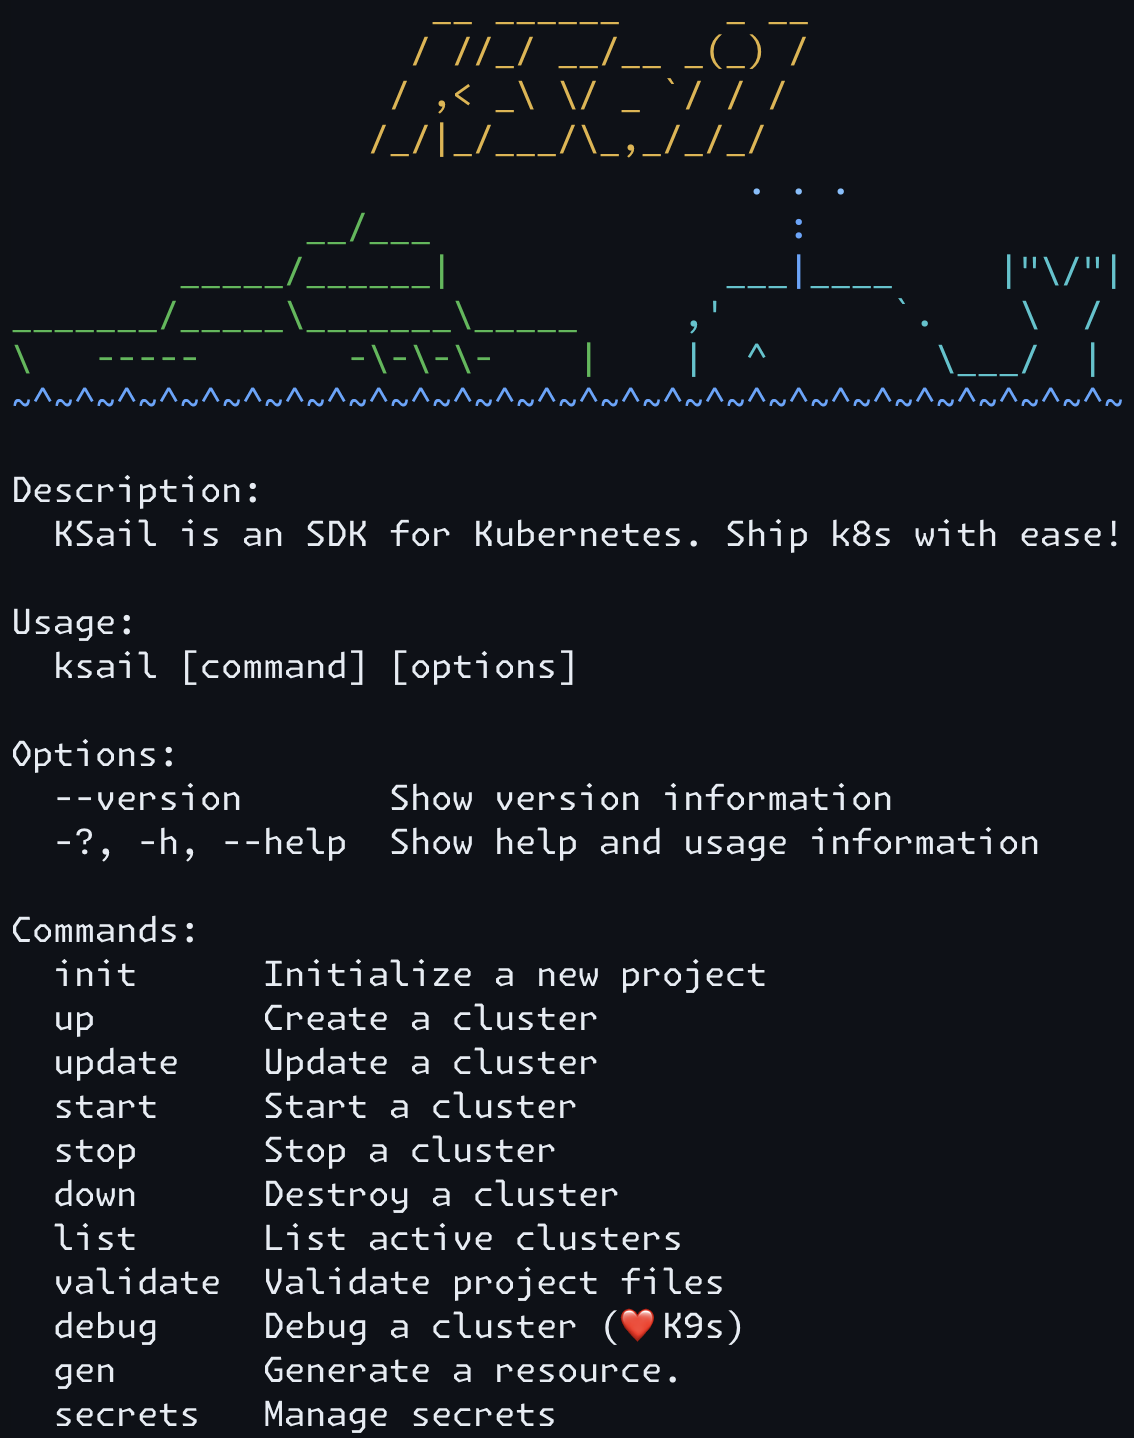
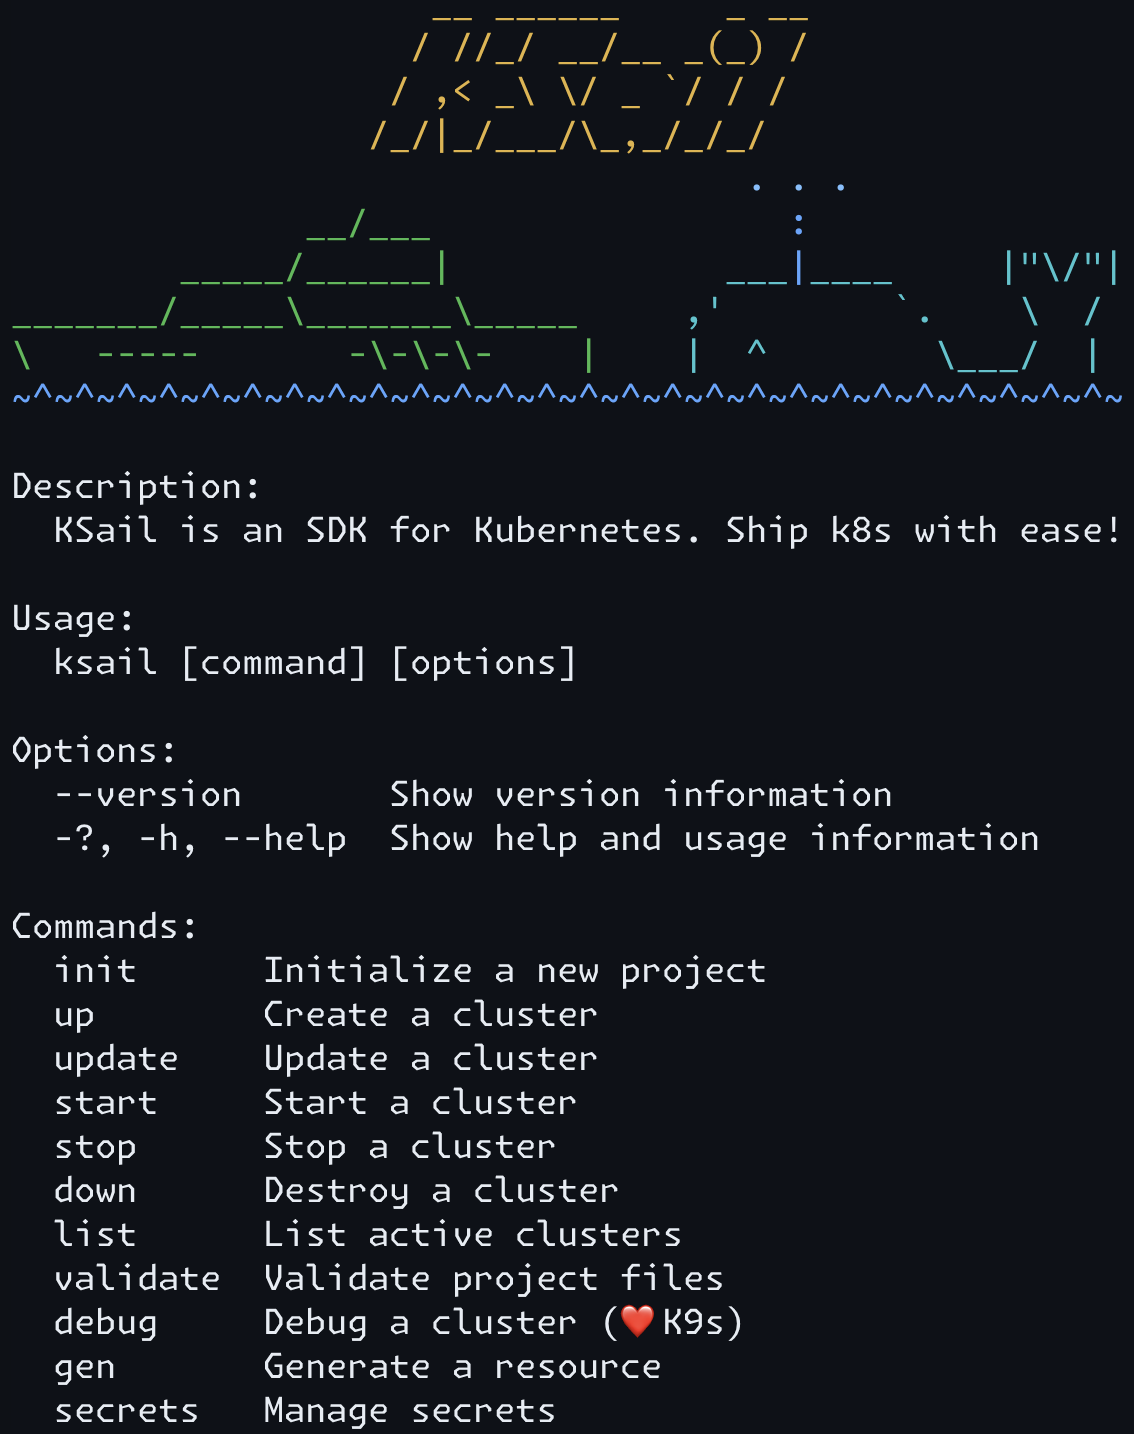
fix: remove trailing periods from 'generate a resource' descriptions

diff --git a/src/KSail/Commands/Gen/KSailGenCommand.cs b/src/KSail/Commands/Gen/KSailGenCommand.cs
@@ -13,7 +13,7 @@ namespace KSail.Commands.Gen;
 sealed class KSailGenCommand : Command
 {
   readonly GeneratorOverwriteOption _generatorOverwriteOption = new(new KSailCluster());
-  internal KSailGenCommand(IConsole? console = default) : base("gen", "Generate a resource.")
+  internal KSailGenCommand(IConsole? console = default) : base("gen", "Generate a resource")
   {
     AddGlobalOption(_generatorOverwriteOption);
     AddCommands(console);

diff --git a/docs/configuration/cli-options.md b/docs/configuration/cli-options.md
@@ -35,7 +35,7 @@ Commands:
   list      List active clusters
   validate  Validate project files
   debug     Debug a cluster (❤ K9s)
-  gen       Generate a resource.
+  gen       Generate a resource
   secrets   Manage secrets
 ```
 
@@ -184,7 +184,7 @@ Commands:
   list      List active clusters
   validate  Validate project files
   debug     Debug a cluster (❤ K9s)
-  gen       Generate a resource.
+  gen       Generate a resource
   secrets   Manage secrets
 ```
 
@@ -224,7 +224,7 @@ Options:
 
 ```text
 Description:
-  Generate a resource.
+  Generate a resource
 
 Usage:
   ksail gen [command] [options]
